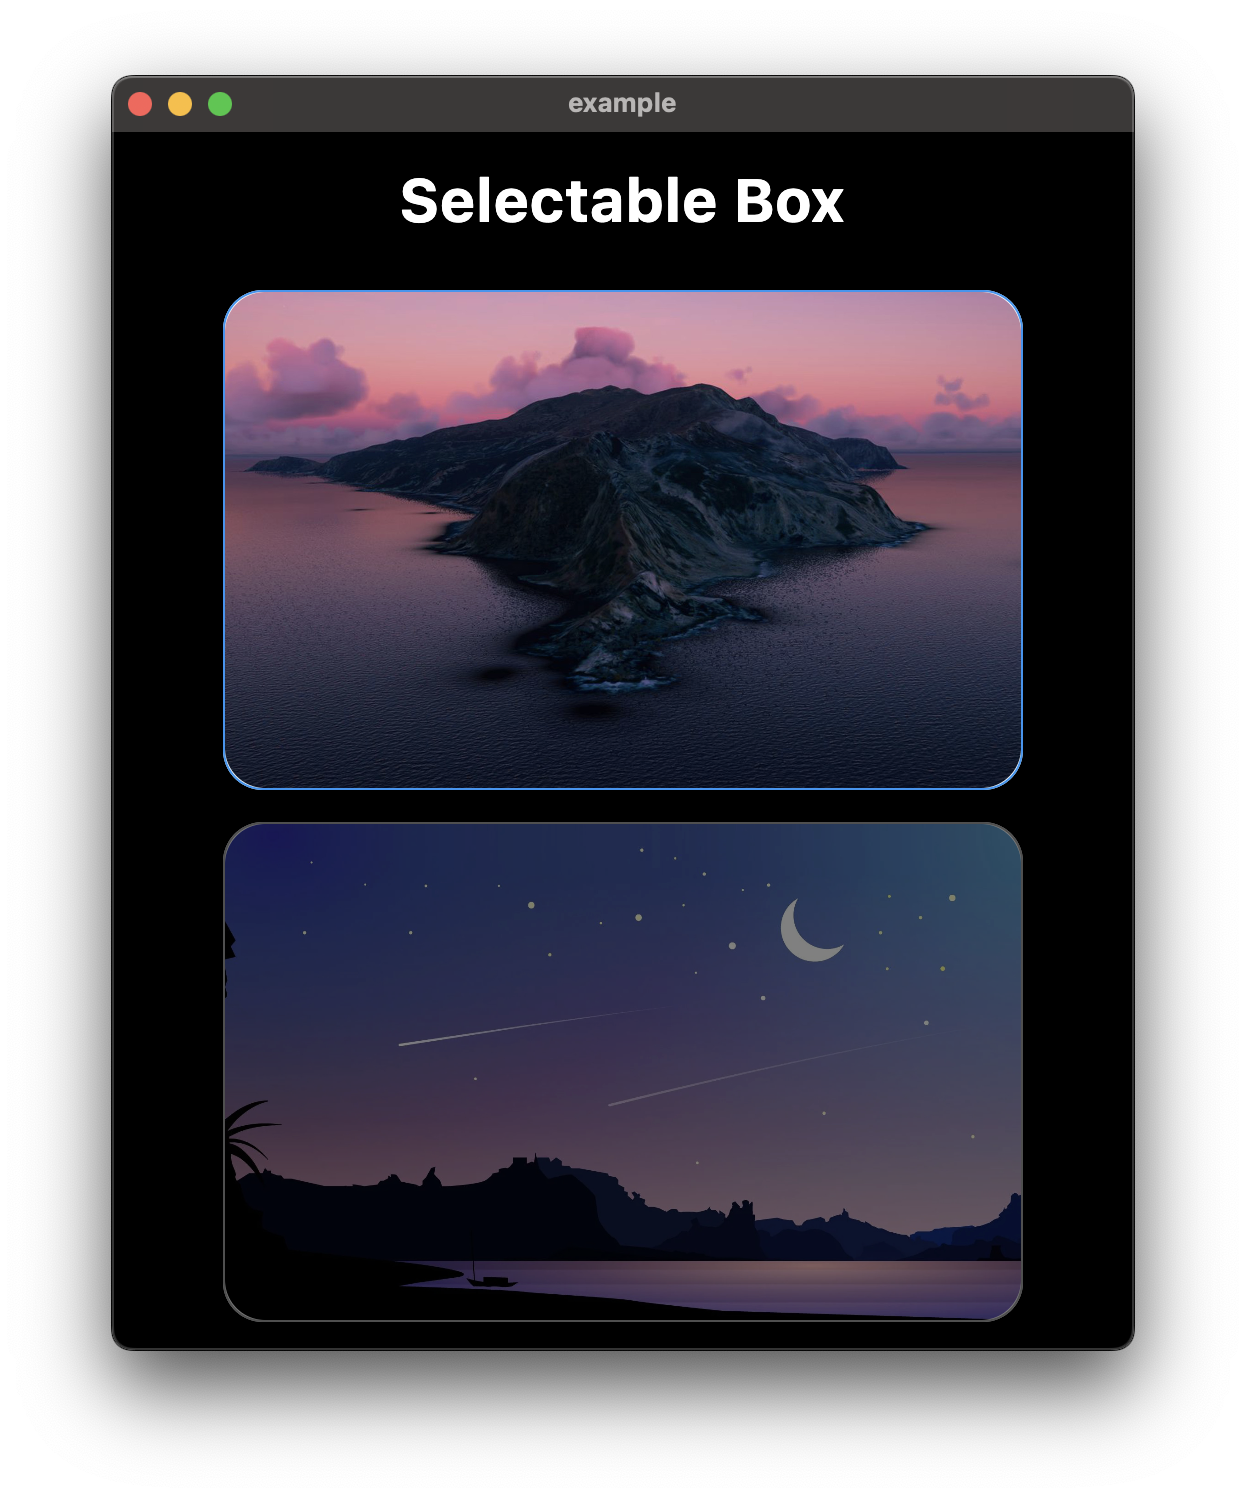
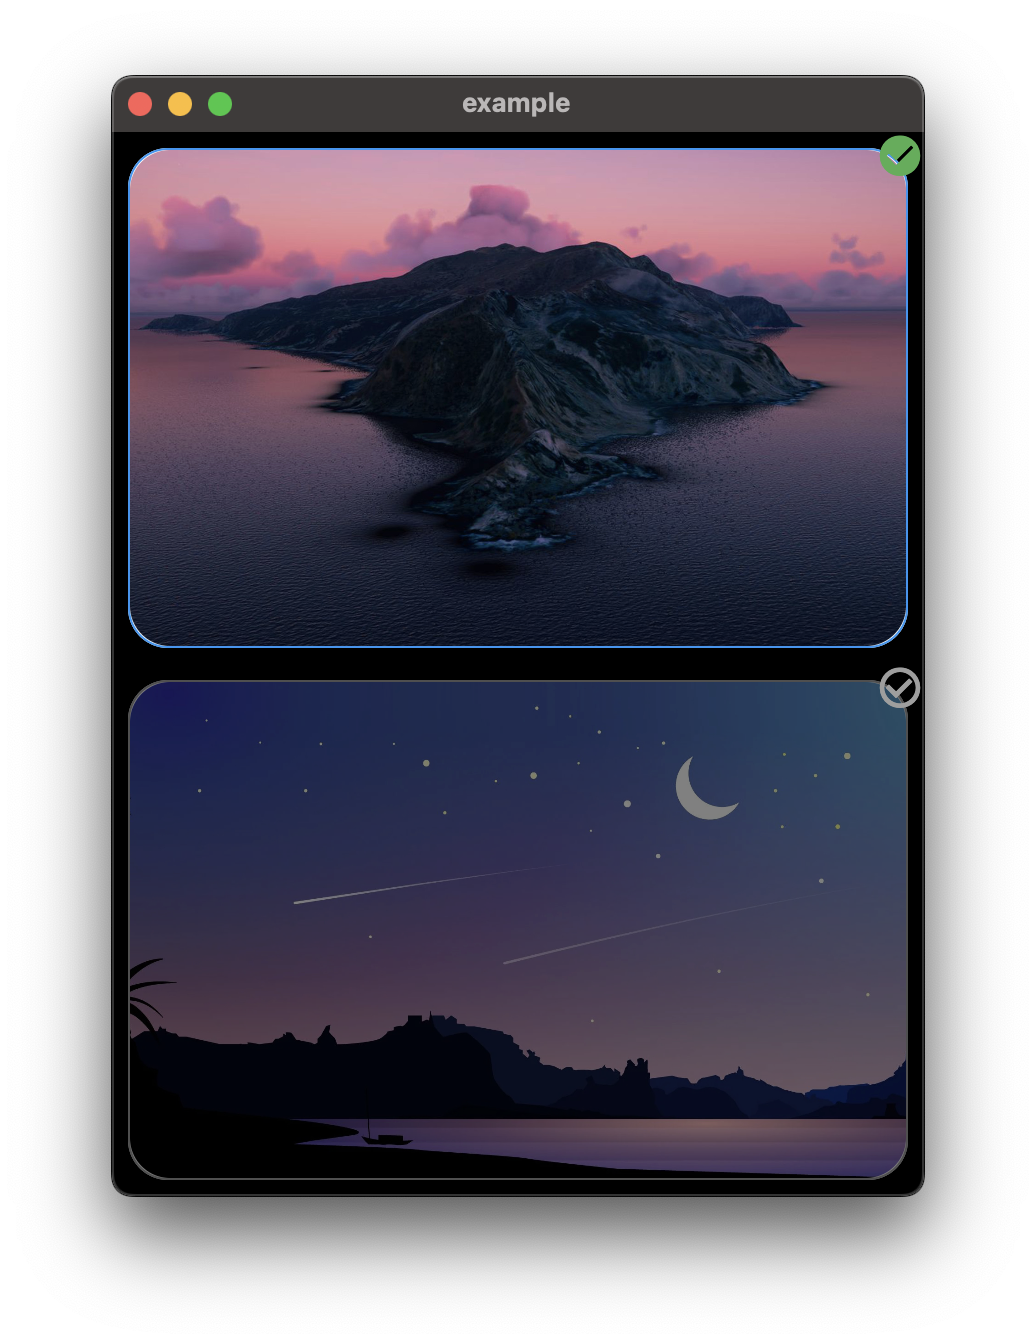
`v1.0.3` Update

diff --git a/lib/selectable_box.dart b/lib/selectable_box.dart
@@ -1,3 +1,4 @@
+import 'package:figma_squircle/figma_squircle.dart';
 import 'package:flutter/material.dart';
 
 /// A widget that can be selected and deselected.
@@ -24,7 +25,7 @@ class SelectableBox extends StatefulWidget {
   final double borderWidth;
 
   /// Border radius of the [SelectableBox] widget.
-  final BorderRadius borderRadius;
+  final double borderRadius;
 
   /// Padding of the box.
   final EdgeInsetsGeometry padding;
@@ -37,6 +38,21 @@ class SelectableBox extends StatefulWidget {
 
   /// Opacity of the [SelectableBox] widget when it is selected.
   final double? isSelectedOpacity;
+
+  /// Alignment of the checkbox in the [SelectableBox] widget.
+  final Alignment checkboxAlignment;
+
+  /// Padding of the checkbox in the [SelectableBox] widget.
+  final EdgeInsetsGeometry checkboxPadding;
+
+  /// Icon to be displayed when the [SelectableBox] widget is selected.
+  final Widget selectedIcon;
+
+  /// Icon to be displayed when the [SelectableBox] widget is not selected.
+  final Widget unselectdIcon;
+
+  /// Whether to show the checkbox or not.
+  final bool showCheckbox;
 
   /// Callback when the [SelectableBox] widget is tapped.
   final VoidCallback onTap;
@@ -56,11 +72,22 @@ class SelectableBox extends StatefulWidget {
     this.borderColor = Colors.grey,
     this.isSelectedBorderColor = Colors.blue,
     this.borderWidth = 1,
-    this.borderRadius = const BorderRadius.all(Radius.circular(20)),
+    this.borderRadius = 20,
     this.padding = const EdgeInsets.all(8),
     this.animationDuration = const Duration(milliseconds: 200),
     this.opacity = 0.5,
     this.isSelectedOpacity = 1,
+    this.checkboxAlignment = Alignment.topRight,
+    this.checkboxPadding = const EdgeInsets.all(0),
+    this.selectedIcon = const Icon(
+      Icons.check_circle,
+      color: Colors.green,
+    ),
+    this.unselectdIcon = const Icon(
+      Icons.check_circle_outline,
+      color: Colors.grey,
+    ),
+    this.showCheckbox = true,
     required this.onTap,
     required this.isSelected,
     required this.child,
@@ -75,31 +102,56 @@ class _SelectableBoxState extends State<SelectableBox> {
   Widget build(BuildContext context) {
     return GestureDetector(
       onTap: widget.onTap,
-      child: Padding(
-        padding: widget.padding,
-        child: AnimatedOpacity(
-          duration: widget.animationDuration,
-          opacity:
-              widget.isSelected ? widget.isSelectedOpacity! : widget.opacity,
-          child: Container(
-            decoration: BoxDecoration(
-              color: widget.isSelected ? widget.isSelectedColor : widget.color,
-              border: Border.all(
-                color: widget.isSelected
-                    ? widget.isSelectedBorderColor
-                    : widget.borderColor,
-                width: widget.borderWidth,
+      child: Stack(
+        children: [
+          Padding(
+            padding: widget.padding,
+            child: AnimatedOpacity(
+              duration: widget.animationDuration,
+              opacity: widget.isSelected
+                  ? widget.isSelectedOpacity!
+                  : widget.opacity,
+              child: Container(
+                decoration: BoxDecoration(
+                  color:
+                      widget.isSelected ? widget.isSelectedColor : widget.color,
+                  border: Border.all(
+                    color: widget.isSelected
+                        ? widget.isSelectedBorderColor
+                        : widget.borderColor,
+                    width: widget.borderWidth,
+                  ),
+                  borderRadius: SmoothBorderRadius(
+                    cornerRadius: widget.borderRadius,
+                    cornerSmoothing: 0.5,
+                  ),
+                ),
+                height: widget.height,
+                width: widget.width,
+                child: ClipRRect(
+                  borderRadius: SmoothBorderRadius(
+                    cornerRadius: widget.borderRadius,
+                    cornerSmoothing: 0.5,
+                  ),
+                  child: widget.child,
+                ),
               ),
-              borderRadius: widget.borderRadius,
-            ),
-            height: widget.height,
-            width: widget.width,
-            child: ClipRRect(
-              borderRadius: widget.borderRadius,
-              child: widget.child,
             ),
           ),
-        ),
+          widget.showCheckbox
+              ? Positioned.fill(
+                  child: Padding(
+                    padding: widget.checkboxPadding,
+                    child: Align(
+                      alignment: widget.checkboxAlignment,
+                      child: widget.isSelected
+                          ? widget.selectedIcon
+                          : widget.unselectdIcon,
+                    ),
+                  ),
+                )
+              : const SizedBox()
+        ],
       ),
     );
   }

diff --git a/README.md b/README.md
@@ -9,11 +9,11 @@ Use SelectableBox to create a selectable box in your flutter app.
 
 ## Installation
 
-Add `selectable_box: ^1.0.2` in your project's pubspec.yaml:
+Add `selectable_box: ^1.0.3` in your project's pubspec.yaml:
 
 ```yaml
 dependencies:
-  selectable_box: ^1.0.2
+  selectable_box: ^1.0.3
 ```
 
 ## Usage
@@ -27,24 +27,41 @@ import 'package:selectable_box/selectable_box.dart';
 Then use `SelectableBox` in your widget tree:
 
 ```dart
+bool isSelected = false;
+
 SelectableBox(
-    width: 320,
-    height: 200,
-    color: Colors.white,
-    isSelectedColor: Colors.white,
-    borderColor: Colors.grey,
-    isSelectedBorderColor: Colors.blue,
-    borderWidth: 1,
-    borderRadius: const BorderRadius.all(Radius.circular(20)),
-    padding: const EdgeInsets.all(8),
-    animationDuration: const Duration(milliseconds: 200),
-    opacity: 0.6,
-    isSelectedOpacity: 1,
-    onTap: () {},
-    isSelected: false,
-    child: const Image(
-      image: AssetImage('assets/images/2.jpg'),
-      fit: BoxFit.cover,
-    ),
+  height: 250,
+  width: 400,
+  color: Colors.white,
+  isSelectedColor: Colors.white,
+  borderColor: Colors.grey,
+  isSelectedBorderColor: Colors.blue,
+  borderWidth: 1,
+  borderRadius: 20,
+  padding: const EdgeInsets.all(8),
+  animationDuration: const Duration(milliseconds: 200),
+  opacity: 0.5,
+  isSelectedOpacity: 1,
+  checkboxAlignment: Alignment.topRight,
+  checkboxPadding: const EdgeInsets.all(0),
+  selectedIcon: const Icon(
+    Icons.check_circle,
+    color: Colors.green,
+  ),
+  unselectdIcon: const Icon(
+    Icons.check_circle_outline,
+    color: Colors.grey,
+  ),
+  showCheckbox: true,
+  onTap: () {
+    setState(() {
+      isSelected = !isSelected;
+    });
+  },
+  isSelected: isSelected,
+  child: const Image(
+    image: AssetImage('assets/images/1.jpg'),
+    fit: BoxFit.cover,
+  ),
 ),
 ```

diff --git a/CHANGELOG.md b/CHANGELOG.md
@@ -1,3 +1,8 @@
+## 1.0.3
+
+- Checkbox Widget.
+- Smooth Border Radius.
+
 ## 1.0.2
 
 - Code Linting.
